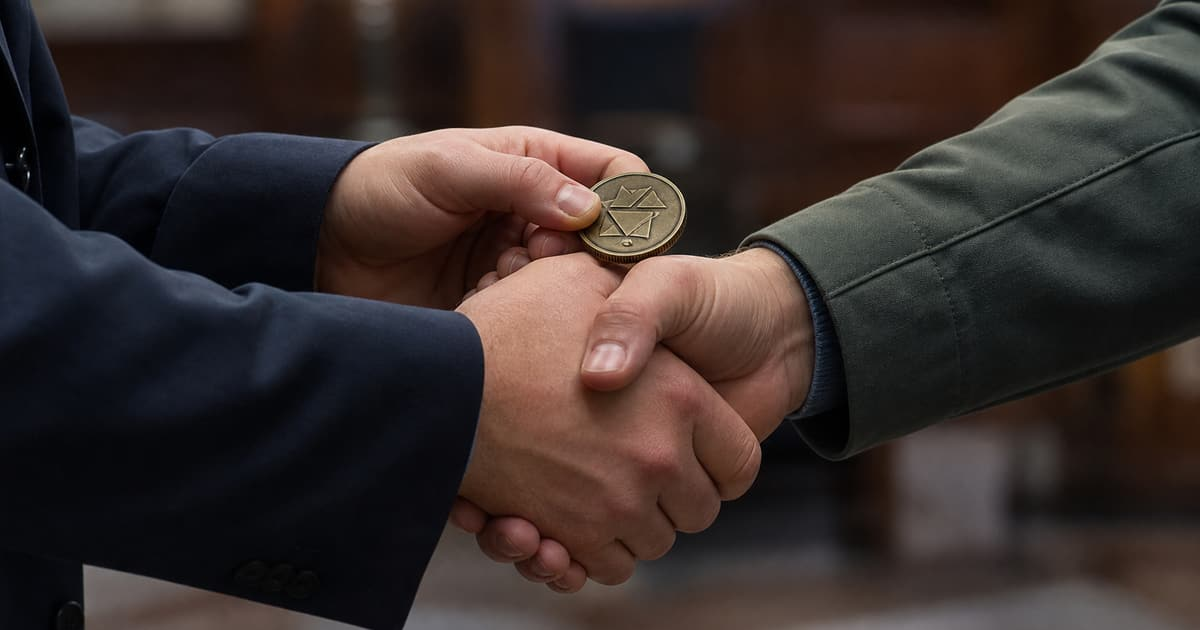
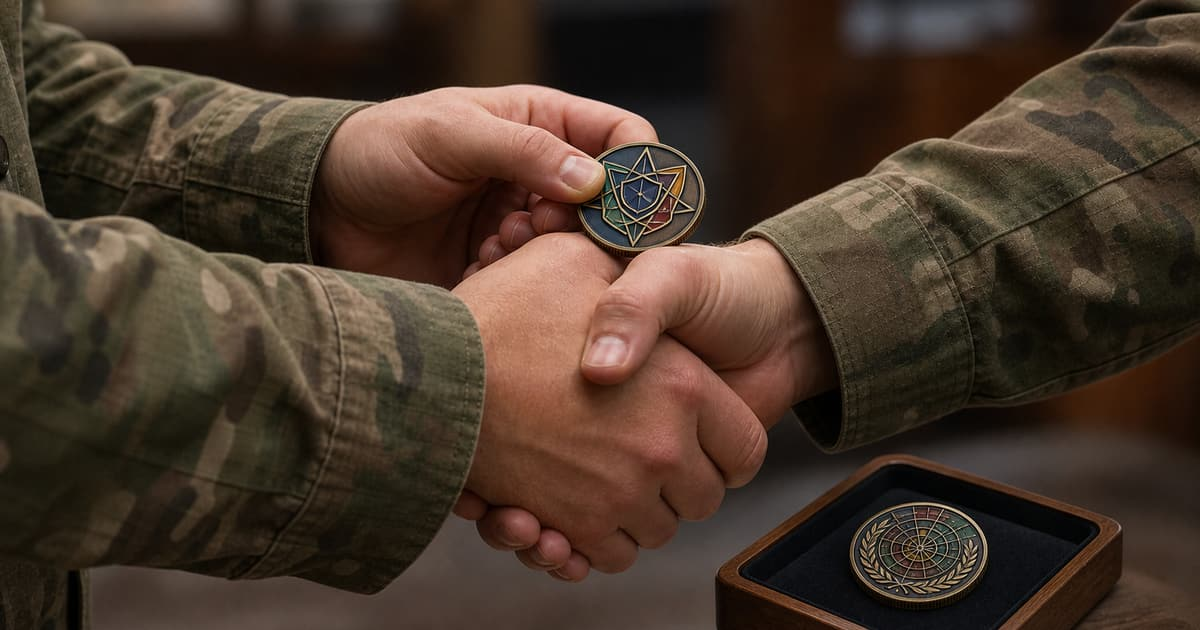
Replace challenge coin blog hero image

diff --git a/app/blog/content.js b/app/blog/content.js
@@ -38,9 +38,7 @@ export const blogHtml = String.raw`
         </div>
         <div class="blog-card-grid">
           <a class="blog-feature-card" href="/blog/military-challenge-coin-traditions" data-blog-category="Custom Coins" aria-label="Read Military Challenge Coin Traditions, Meaning and Etiquette">
-            <div class="blog-feature-placeholder" aria-hidden="true">
-              <span>Military Challenge Coin Traditions</span>
-            </div>
+            <img src="/assets/images/military-challenge-coin-tradition.webp" width="1600" height="900" alt="Military challenge coin presented discreetly during a handshake">
             <div class="blog-feature-body">
               <div class="blog-feature-meta"><span>Custom Coins</span><span>Traditions Guide</span></div>
               <h2>Military Challenge Coin Traditions, Meaning and Etiquette</h2>
